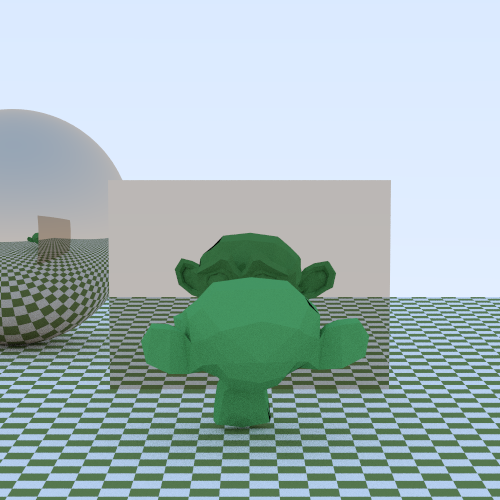
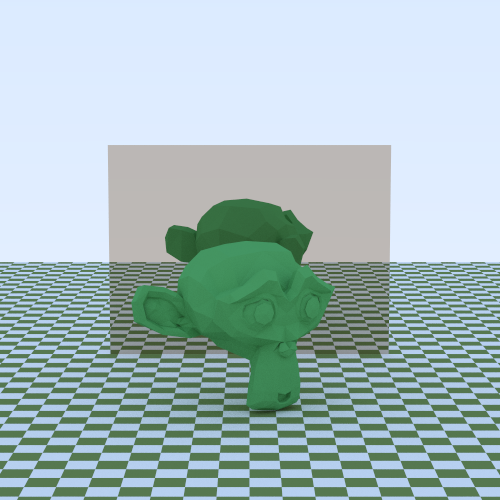
[#5] Clean-up the triangle sample scene.

diff --git a/scenes/rt_scenes.c b/scenes/rt_scenes.c
@@ -343,7 +343,8 @@ rt_hittable_list_t *rt_scene_metal_test(void)
 rt_hittable_list_t *rt_scene_triangle_test(void)
 {
     rt_material_t *green = rt_mt_diffuse_new_with_albedo(colour(0.12, 0.45, 0.15));
-    rt_material_t *floor_mat = rt_mt_diffuse_new_with_texture(rt_texture_cp_new_with_colour(colour(0.2, 0.3, 0.1), colour(0.9, 0.9, 0.9)));
+    rt_material_t *floor_mat =
+        rt_mt_diffuse_new_with_texture(rt_texture_cp_new_with_colour(colour(0.2, 0.3, 0.1), colour(0.9, 0.9, 0.9)));
     rt_material_t *mirror = rt_mt_metal_new(colour(0.7, 0.6, 0.5), 0.0);
     rt_material_t *glass = rt_mt_dielectric_new(1.01);
 
@@ -352,24 +353,25 @@ rt_hittable_list_t *rt_scene_triangle_test(void)
     rt_hittable_t *floor = rt_aa_rect_new_xz(-10, 10, -10, 10, -2, floor_mat);
     rt_hittable_list_add(objects, floor);
 
-    rt_hittable_t *side = rt_triangle_new(point3(-2, -2, 0), point3(2, -2, 0), point3(-2, 1, 0), rt_material_claim(mirror));
+    rt_hittable_t *side =
+        rt_triangle_new(point3(-2, -2, 0), point3(2, -2, 0), point3(-2, 1, 0), rt_material_claim(mirror));
     rt_hittable_list_add(objects, side);
     side = rt_triangle_new(point3(-2, 1, 0), point3(2, -2, 0), point3(2, 1, 0), rt_material_claim(mirror));
     rt_hittable_list_add(objects, side);
 
     // Suzanne model from Blender
+    // clang-format off
     point3_t vertices[] = {
         -0.4375, 0.1640625, -0.765625, 0.4375, 0.1640625, -0.765625, -0.5, 0.09375, -0.6875, 0.5, 0.09375, -0.6875, -0.546875, 0.0546875, -0.578125, 0.546875, 0.0546875, -0.578125, -0.3515625, -0.0234375, -0.6171875, 0.3515625, -0.0234375, -0.6171875, -0.3515625, 0.03125, -0.71875, 0.3515625, 0.03125, -0.71875, -0.3515625, 0.1328125, -0.78125, 0.3515625, 0.1328125, -0.78125, -0.2734375, 0.1640625, -0.796875, 0.2734375, 0.1640625, -0.796875, -0.203125, 0.09375, -0.7421875, 0.203125, 0.09375, -0.7421875, -0.15625, 0.0546875, -0.6484375, 0.15625, 0.0546875, -0.6484375, -0.078125, 0.2421875, -0.65625, 0.078125, 0.2421875, -0.65625, -0.140625, 0.2421875, -0.7421875, 0.140625, 0.2421875, -0.7421875, -0.2421875, 0.2421875, -0.796875, 0.2421875, 0.2421875, -0.796875, -0.2734375, 0.328125, -0.796875, 0.2734375, 0.328125, -0.796875, -0.203125, 0.390625, -0.7421875, 0.203125, 0.390625, -0.7421875, -0.15625, 0.4375, -0.6484375, 0.15625, 0.4375, -0.6484375, -0.3515625, 0.515625, -0.6171875, 0.3515625, 0.515625, -0.6171875, -0.3515625, 0.453125, -0.71875, 0.3515625, 0.453125, -0.71875, -0.3515625, 0.359375, -0.78125, 0.3515625, 0.359375, -0.78125, -0.4375, 0.328125, -0.765625, 0.4375, 0.328125, -0.765625, -0.5, 0.390625, -0.6875, 0.5, 0.390625, -0.6875, -0.546875, 0.4375, -0.578125, 0.546875, 0.4375, -0.578125, -0.625, 0.2421875, -0.5625, 0.625, 0.2421875, -0.5625, -0.5625, 0.2421875, -0.671875, 0.5625, 0.2421875, -0.671875, -0.46875, 0.2421875, -0.7578125, 0.46875, 0.2421875, -0.7578125, -0.4765625, 0.2421875, -0.7734375, 0.4765625, 0.2421875, -0.7734375, -0.4453125, 0.3359375, -0.78125, 0.4453125, 0.3359375, -0.78125, -0.3515625, 0.375, -0.8046875, 0.3515625, 0.375, -0.8046875, -0.265625, 0.3359375, -0.8203125, 0.265625, 0.3359375, -0.8203125, -0.2265625, 0.2421875, -0.8203125, 0.2265625, 0.2421875, -0.8203125, -0.265625, 0.15625, -0.8203125, 0.265625, 0.15625, -0.8203125, -0.3515625, 0.2421875, -0.828125, 0.3515625, 0.2421875, -0.828125, -0.3515625, 0.1171875, -0.8046875, 0.3515625, 0.1171875, -0.8046875, -0.4453125, 0.15625, -0.78125, 0.4453125, 0.15625, -0.78125, 0, 0.4296875, -0.7421875, 0, 0.3515625, -0.8203125, 0, -0.6796875, -0.734375, 0, -0.3203125, -0.78125, 0, -0.1875, -0.796875, 0, -0.7734375, -0.71875, 0, 0.40625, -0.6015625, 0, 0.5703125, -0.5703125, 0, 0.8984375, 0.546875, 0, 0.5625, 0.8515625, 0, 0.0703125, 0.828125, 0, -0.3828125, 0.3515625, -0.203125, -0.1875, -0.5625, 0.203125, -0.1875, -0.5625, -0.3125, -0.4375, -0.5703125, 0.3125, -0.4375, -0.5703125, -0.3515625, -0.6953125, -0.5703125, 0.3515625, -0.6953125, -0.5703125, -0.3671875, -0.890625, -0.53125, 0.3671875, -0.890625, -0.53125, -0.328125, -0.9453125, -0.5234375, 0.328125, -0.9453125, -0.5234375, -0.1796875, -0.96875, -0.5546875, 0.1796875, -0.96875, -0.5546875, 0, -0.984375, -0.578125, -0.4375, -0.140625, -0.53125, 0.4375, -0.140625, -0.53125, -0.6328125, -0.0390625, -0.5390625, 0.6328125, -0.0390625, -0.5390625, -0.828125, 0.1484375, -0.4453125, 0.828125, 0.1484375, -0.4453125, -0.859375, 0.4296875, -0.59375, 0.859375, 0.4296875, -0.59375, -0.7109375, 0.484375, -0.625, 0.7109375, 0.484375, -0.625, -0.4921875, 0.6015625, -0.6875, 0.4921875, 0.6015625, -0.6875, -0.3203125, 0.7578125, -0.734375, 0.3203125, 0.7578125, -0.734375, -0.15625, 0.71875, -0.7578125, 0.15625, 0.71875, -0.7578125, -0.0625, 0.4921875, -0.75, 0.0625, 0.4921875, -0.75, -0.1640625, 0.4140625, -0.7734375, 0.1640625, 0.4140625, -0.7734375, -0.125, 0.3046875, -0.765625, 0.125, 0.3046875, -0.765625, -0.203125, 0.09375, -0.7421875, 0.203125, 0.09375, -0.7421875, -0.375, 0.015625, -0.703125, 0.375, 0.015625, -0.703125, -0.4921875, 0.0625, -0.671875, 0.4921875, 0.0625, -0.671875, -0.625, 0.1875, -0.6484375, 0.625, 0.1875, -0.6484375, -0.640625, 0.296875, -0.6484375, 0.640625, 0.296875, -0.6484375, -0.6015625, 0.375, -0.6640625, 0.6015625, 0.375, -0.6640625, -0.4296875, 0.4375, -0.71875, 0.4296875, 0.4375, -0.71875, -0.25, 0.46875, -0.7578125, 0.25, 0.46875, -0.7578125, 0, -0.765625, -0.734375, -0.109375, -0.71875, -0.734375, 0.109375, -0.71875, -0.734375, -0.1171875, -0.8359375, -0.7109375, 0.1171875, -0.8359375, -0.7109375, -0.0625, -0.8828125, -0.6953125, 0.0625, -0.8828125, -0.6953125, 0, -0.890625, -0.6875, 0, -0.1953125, -0.75, 0, -0.140625, -0.7421875, -0.1015625, -0.1484375, -0.7421875, 0.1015625, -0.1484375, -0.7421875, -0.125, -0.2265625, -0.75, 0.125, -0.2265625, -0.75, -0.0859375, -0.2890625, -0.7421875, 0.0859375, -0.2890625, -0.7421875, -0.3984375, -0.046875, -0.671875, 0.3984375, -0.046875, -0.671875, -0.6171875, 0.0546875, -0.625, 0.6171875, 0.0546875, -0.625, -0.7265625, 0.203125, -0.6015625, 0.7265625, 0.203125, -0.6015625, -0.7421875, 0.375, -0.65625, 0.7421875, 0.375, -0.65625, -0.6875, 0.4140625, -0.7265625, 0.6875, 0.4140625, -0.7265625, -0.4375, 0.546875, -0.796875, 0.4375, 0.546875, -0.796875, -0.3125, 0.640625, -0.8359375, 0.3125, 0.640625, -0.8359375, -0.203125, 0.6171875, -0.8515625, 0.203125, 0.6171875, -0.8515625, -0.1015625, 0.4296875, -0.84375, 0.1015625, 0.4296875, -0.84375, -0.125, -0.1015625, -0.8125, 0.125, -0.1015625, -0.8125, -0.2109375, -0.4453125, -0.7109375, 0.2109375, -0.4453125, -0.7109375, -0.25, -0.703125, -0.6875, 0.25, -0.703125, -0.6875, -0.265625, -0.8203125, -0.6640625, 0.265625, -0.8203125, -0.6640625, -0.234375, -0.9140625, -0.6328125, 0.234375, -0.9140625, -0.6328125, -0.1640625, -0.9296875, -0.6328125, 0.1640625, -0.9296875, -0.6328125, 0, -0.9453125, -0.640625, 0, 0.046875, -0.7265625, 0, 0.2109375, -0.765625, -0.328125, 0.4765625, -0.7421875, 0.328125, 0.4765625, -0.7421875, -0.1640625, 0.140625, -0.75, 0.1640625, 0.140625, -0.75, -0.1328125, 0.2109375, -0.7578125, 0.1328125, 0.2109375, -0.7578125, -0.1171875, -0.6875, -0.734375, 0.1171875, -0.6875, -0.734375, -0.078125, -0.4453125, -0.75, 0.078125, -0.4453125, -0.75, 0, -0.4453125, -0.75, 0, -0.328125, -0.7421875, -0.09375, -0.2734375, -0.78125, 0.09375, -0.2734375, -0.78125, -0.1328125, -0.2265625, -0.796875, 0.1328125, -0.2265625, -0.796875, -0.109375, -0.1328125, -0.78125, 0.109375, -0.1328125, -0.78125, -0.0390625, -0.125, -0.78125, 0.0390625, -0.125, -0.78125, 0, -0.203125, -0.828125, -0.046875, -0.1484375, -0.8125, 0.046875, -0.1484375, -0.8125, -0.09375, -0.15625, -0.8125, 0.09375, -0.15625, -0.8125, -0.109375, -0.2265625, -0.828125, 0.109375, -0.2265625, -0.828125, -0.078125, -0.25, -0.8046875, 0.078125, -0.25, -0.8046875, 0, -0.2890625, -0.8046875, -0.2578125, -0.3125, -0.5546875, 0.2578125, -0.3125, -0.5546875, -0.1640625, -0.2421875, -0.7109375, 0.1640625, -0.2421875, -0.7109375, -0.1796875, -0.3125, -0.7109375, 0.1796875, -0.3125, -0.7109375, -0.234375, -0.25, -0.5546875, 0.234375, -0.25, -0.5546875, 0, -0.875, -0.6875, -0.046875, -0.8671875, -0.6875, 0.046875, -0.8671875, -0.6875, -0.09375, -0.8203125, -0.7109375, 0.09375, -0.8203125, -0.7109375, -0.09375, -0.7421875, -0.7265625, 0.09375, -0.7421875, -0.7265625, 0, -0.78125, -0.65625, -0.09375, -0.75, -0.6640625, 0.09375, -0.75, -0.6640625, -0.09375, -0.8125, -0.640625, 0.09375, -0.8125, -0.640625, -0.046875, -0.8515625, -0.6328125, 0.046875, -0.8515625, -0.6328125, 0, -0.859375, -0.6328125, -0.171875, 0.21875, -0.78125, 0.171875, 0.21875, -0.78125, -0.1875, 0.15625, -0.7734375, 0.1875, 0.15625, -0.7734375, -0.3359375, 0.4296875, -0.7578125, 0.3359375, 0.4296875, -0.7578125, -0.2734375, 0.421875, -0.7734375, 0.2734375, 0.421875, -0.7734375, -0.421875, 0.3984375, -0.7734375, 0.421875, 0.3984375, -0.7734375, -0.5625, 0.3515625, -0.6953125, 0.5625, 0.3515625, -0.6953125, -0.5859375, 0.2890625, -0.6875, 0.5859375, 0.2890625, -0.6875, -0.578125, 0.1953125, -0.6796875, 0.578125, 0.1953125, -0.6796875, -0.4765625, 0.1015625, -0.71875, 0.4765625, 0.1015625, -0.71875, -0.375, 0.0625, -0.7421875, 0.375, 0.0625, -0.7421875, -0.2265625, 0.109375, -0.78125, 0.2265625, 0.109375, -0.78125, -0.1796875, 0.296875, -0.78125, 0.1796875, 0.296875, -0.78125, -0.2109375, 0.375, -0.78125, 0.2109375, 0.375, -0.78125, -0.234375, 0.359375, -0.7578125, 0.234375, 0.359375, -0.7578125, -0.1953125, 0.296875, -0.7578125, 0.1953125, 0.296875, -0.7578125, -0.2421875, 0.125, -0.7578125, 0.2421875, 0.125, -0.7578125, -0.375, 0.0859375, -0.7265625, 0.375, 0.0859375, -0.7265625, -0.4609375, 0.1171875, -0.703125, 0.4609375, 0.1171875, -0.703125, -0.546875, 0.2109375, -0.671875, 0.546875, 0.2109375, -0.671875, -0.5546875, 0.28125, -0.671875, 0.5546875, 0.28125, -0.671875, -0.53125, 0.3359375, -0.6796875, 0.53125, 0.3359375, -0.6796875, -0.4140625, 0.390625, -0.75, 0.4140625, 0.390625, -0.75, -0.28125, 0.3984375, -0.765625, 0.28125, 0.3984375, -0.765625, -0.3359375, 0.40625, -0.75, 0.3359375, 0.40625, -0.75, -0.203125, 0.171875, -0.75, 0.203125, 0.171875, -0.75, -0.1953125, 0.2265625, -0.75, 0.1953125, 0.2265625, -0.75, -0.109375, 0.4609375, -0.609375, 0.109375, 0.4609375, -0.609375, -0.1953125, 0.6640625, -0.6171875, 0.1953125, 0.6640625, -0.6171875, -0.3359375, 0.6875, -0.59375, 0.3359375, 0.6875, -0.59375, -0.484375, 0.5546875, -0.5546875, 0.484375, 0.5546875, -0.5546875, -0.6796875, 0.453125, -0.4921875, 0.6796875, 0.453125, -0.4921875, -0.796875, 0.40625, -0.4609375, 0.796875, 0.40625, -0.4609375, -0.7734375, 0.1640625, -0.375, 0.7734375, 0.1640625, -0.375, -0.6015625, 0, -0.4140625, 0.6015625, 0, -0.4140625, -0.4375, -0.09375, -0.46875, 0.4375, -0.09375, -0.46875, 0, 0.8984375, -0.2890625, 0, 0.984375, 0.078125, 0, -0.1953125, 0.671875, 0, -0.4609375, -0.1875, 0, -0.9765625, -0.4609375, 0, -0.8046875, -0.34375, 0, -0.5703125, -0.3203125, 0, -0.484375, -0.28125, -0.8515625, 0.234375, -0.0546875, 0.8515625, 0.234375, -0.0546875, -0.859375, 0.3203125, 0.046875, 0.859375, 0.3203125, 0.046875, -0.7734375, 0.265625, 0.4375, 0.7734375, 0.265625, 0.4375, -0.4609375, 0.4375, 0.703125, 0.4609375, 0.4375, 0.703125, -0.734375, -0.046875, -0.0703125, 0.734375, -0.046875, -0.0703125, -0.59375, -0.125, 0.1640625, 0.59375, -0.125, 0.1640625, -0.640625, -0.0078125, 0.4296875, 0.640625, -0.0078125, 0.4296875, -0.3359375, 0.0546875, 0.6640625, 0.3359375, 0.0546875, 0.6640625, -0.234375, -0.3515625, -0.40625, 0.234375, -0.3515625, -0.40625, -0.1796875, -0.4140625, -0.2578125, 0.1796875, -0.4140625, -0.2578125, -0.2890625, -0.7109375, -0.3828125, 0.2890625, -0.7109375, -0.3828125, -0.25, -0.5, -0.390625, 0.25, -0.5, -0.390625, -0.328125, -0.9140625, -0.3984375, 0.328125, -0.9140625, -0.3984375, -0.140625, -0.7578125, -0.3671875, 0.140625, -0.7578125, -0.3671875, -0.125, -0.5390625, -0.359375, 0.125, -0.5390625, -0.359375, -0.1640625, -0.9453125, -0.4375, 0.1640625, -0.9453125, -0.4375, -0.21875, -0.28125, -0.4296875, 0.21875, -0.28125, -0.4296875, -0.2109375, -0.2265625, -0.46875, 0.2109375, -0.2265625, -0.46875, -0.203125, -0.171875, -0.5, 0.203125, -0.171875, -0.5, -0.2109375, -0.390625, -0.1640625, 0.2109375, -0.390625, -0.1640625, -0.296875, -0.3125, 0.265625, 0.296875, -0.3125, 0.265625, -0.34375, -0.1484375, 0.5390625, 0.34375, -0.1484375, 0.5390625, -0.453125, 0.8671875, 0.3828125, 0.453125, 0.8671875, 0.3828125, -0.453125, 0.9296875, 0.0703125, 0.453125, 0.9296875, 0.0703125, -0.453125, 0.8515625, -0.234375, 0.453125, 0.8515625, -0.234375, -0.4609375, 0.5234375, -0.4296875, 0.4609375, 0.5234375, -0.4296875, -0.7265625, 0.40625, -0.3359375, 0.7265625, 0.40625, -0.3359375, -0.6328125, 0.453125, -0.28125, 0.6328125, 0.453125, -0.28125, -0.640625, 0.703125, -0.0546875, 0.640625, 0.703125, -0.0546875, -0.796875, 0.5625, -0.125, 0.796875, 0.5625, -0.125, -0.796875, 0.6171875, 0.1171875, 0.796875, 0.6171875, 0.1171875, -0.640625, 0.75, 0.1953125, 0.640625, 0.75, 0.1953125, -0.640625, 0.6796875, 0.4453125, 0.640625, 0.6796875, 0.4453125, -0.796875, 0.5390625, 0.359375, 0.796875, 0.5390625, 0.359375, -0.6171875, 0.328125, 0.5859375, 0.6171875, 0.328125, 0.5859375, -0.484375, 0.0234375, 0.546875, 0.484375, 0.0234375, 0.546875, -0.8203125, 0.328125, 0.203125, 0.8203125, 0.328125, 0.203125, -0.40625, -0.171875, -0.1484375, 0.40625, -0.171875, -0.1484375, -0.4296875, -0.1953125, 0.2109375, 0.4296875, -0.1953125, 0.2109375, -0.890625, 0.40625, 0.234375, 0.890625, 0.40625, 0.234375, -0.7734375, -0.140625, 0.125, 0.7734375, -0.140625, 0.125, -1.039062, -0.1015625, 0.328125, 1.039062, -0.1015625, 0.328125, -1.28125, 0.0546875, 0.4296875, 1.28125, 0.0546875, 0.4296875, -1.351562, 0.3203125, 0.421875, 1.351562, 0.3203125, 0.421875, -1.234375, 0.5078125, 0.421875, 1.234375, 0.5078125, 0.421875, -1.023437, 0.4765625, 0.3125, 1.023437, 0.4765625, 0.3125, -1.015625, 0.4140625, 0.2890625, 1.015625, 0.4140625, 0.2890625, -1.1875, 0.4375, 0.390625, 1.1875, 0.4375, 0.390625, -1.265625, 0.2890625, 0.40625, 1.265625, 0.2890625, 0.40625, -1.210937, 0.078125, 0.40625, 1.210937, 0.078125, 0.40625, -1.03125, -0.0390625, 0.3046875, 1.03125, -0.0390625, 0.3046875, -0.828125, -0.0703125, 0.1328125, 0.828125, -0.0703125, 0.1328125, -0.921875, 0.359375, 0.21875, 0.921875, 0.359375, 0.21875, -0.9453125, 0.3046875, 0.2890625, 0.9453125, 0.3046875, 0.2890625, -0.8828125, -0.0234375, 0.2109375, 0.8828125, -0.0234375, 0.2109375, -1.039062, 0, 0.3671875, 1.039062, 0, 0.3671875, -1.1875, 0.09375, 0.4453125, 1.1875, 0.09375, 0.4453125, -1.234375, 0.25, 0.4453125, 1.234375, 0.25, 0.4453125, -1.171875, 0.359375, 0.4375, 1.171875, 0.359375, 0.4375, -1.023437, 0.34375, 0.359375, 1.023437, 0.34375, 0.359375, -0.84375, 0.2890625, 0.2109375, 0.84375, 0.2890625, 0.2109375, -0.8359375, 0.171875, 0.2734375, 0.8359375, 0.171875, 0.2734375, -0.7578125, 0.09375, 0.2734375, 0.7578125, 0.09375, 0.2734375, -0.8203125, 0.0859375, 0.2734375, 0.8203125, 0.0859375, 0.2734375, -0.84375, 0.015625, 0.2734375, 0.84375, 0.015625, 0.2734375, -0.8125, -0.015625, 0.2734375, 0.8125, -0.015625, 0.2734375, -0.7265625, 0, 0.0703125, 0.7265625, 0, 0.0703125, -0.71875, -0.0234375, 0.171875, 0.71875, -0.0234375, 0.171875, -0.71875, 0.0390625, 0.1875, 0.71875, 0.0390625, 0.1875, -0.796875, 0.203125, 0.2109375, 0.796875, 0.203125, 0.2109375, -0.890625, 0.2421875, 0.265625, 0.890625, 0.2421875, 0.265625, -0.890625, 0.234375, 0.3203125, 0.890625, 0.234375, 0.3203125, -0.8125, -0.015625, 0.3203125, 0.8125, -0.015625, 0.3203125, -0.8515625, 0.015625, 0.3203125, 0.8515625, 0.015625, 0.3203125, -0.828125, 0.078125, 0.3203125, 0.828125, 0.078125, 0.3203125, -0.765625, 0.09375, 0.3203125, 0.765625, 0.09375, 0.3203125, -0.84375, 0.171875, 0.3203125, 0.84375, 0.171875, 0.3203125, -1.039062, 0.328125, 0.4140625, 1.039062, 0.328125, 0.4140625, -1.1875, 0.34375, 0.484375, 1.1875, 0.34375, 0.484375, -1.257812, 0.2421875, 0.4921875, 1.257812, 0.2421875, 0.4921875, -1.210937, 0.0859375, 0.484375, 1.210937, 0.0859375, 0.484375, -1.046875, 0, 0.421875, 1.046875, 0, 0.421875, -0.8828125, -0.015625, 0.265625, 0.8828125, -0.015625, 0.265625, -0.953125, 0.2890625, 0.34375, 0.953125, 0.2890625, 0.34375, -0.890625, 0.109375, 0.328125, 0.890625, 0.109375, 0.328125, -0.9375, 0.0625, 0.3359375, 0.9375, 0.0625, 0.3359375, -1, 0.125, 0.3671875, 1, 0.125, 0.3671875, -0.9609375, 0.171875, 0.3515625, 0.9609375, 0.171875, 0.3515625, -1.015625, 0.234375, 0.375, 1.015625, 0.234375, 0.375, -1.054687, 0.1875, 0.3828125, 1.054687, 0.1875, 0.3828125, -1.109375, 0.2109375, 0.390625, 1.109375, 0.2109375, 0.390625, -1.085937, 0.2734375, 0.390625, 1.085937, 0.2734375, 0.390625, -1.023437, 0.4375, 0.484375, 1.023437, 0.4375, 0.484375, -1.25, 0.46875, 0.546875, 1.25, 0.46875, 0.546875, -1.367187, 0.296875, 0.5, 1.367187, 0.296875, 0.5, -1.3125, 0.0546875, 0.53125, 1.3125, 0.0546875, 0.53125, -1.039062, -0.0859375, 0.4921875, 1.039062, -0.0859375, 0.4921875, -0.7890625, -0.125, 0.328125, 0.7890625, -0.125, 0.328125, -0.859375, 0.3828125, 0.3828125, 0.859375, 0.3828125, 0.3828125
     };
     size_t triangle_count = 967;
     size_t triangles[] = {46, 2, 44, 3, 47, 45, 44, 4, 42, 5, 45, 43, 2, 6, 4, 7, 3, 5, 0, 8, 2, 9, 1, 3, 10, 14, 8, 15, 11, 9, 8, 16, 6, 17, 9, 7, 20, 16, 14, 21, 17, 19, 22, 14, 12, 23, 15, 21, 22, 26, 20, 27, 23, 21, 26, 18, 20, 27, 19, 29, 32, 28, 26, 33, 29, 31, 34, 26, 24, 35, 27, 33, 36, 32, 34, 37, 33, 39, 38, 30, 32, 39, 31, 41, 44, 40, 38, 45, 41, 43, 46, 38, 36, 47, 39, 45, 36, 48, 46, 37, 49, 51, 34, 50, 36, 35, 51, 53, 24, 52, 34, 25, 53, 55, 22, 54, 24, 23, 55, 57, 22, 58, 56, 59, 23, 57, 12, 62, 58, 63, 13, 59, 10, 64, 62, 65, 11, 63, 0, 48, 64, 49, 1, 65, 60, 64, 48, 49, 65, 61, 62, 64, 60, 61, 65, 63, 60, 58, 62, 63, 59, 61, 60, 56, 58, 59, 57, 61, 60, 54, 56, 57, 55, 61, 60, 52, 54, 55, 53, 61, 60, 50, 52, 53, 51, 61, 60, 48, 50, 51, 49, 61, 173, 90, 88, 174, 90, 175, 171, 88, 86, 172, 89, 174, 84, 171, 86, 172, 85, 87, 82, 169, 84, 170, 83, 85, 80, 167, 82, 168, 81, 83, 78, 145, 163, 146, 79, 164, 93, 145, 91, 94, 146, 148, 93, 149, 147, 150, 94, 148, 97, 149, 95, 98, 150, 152, 99, 151, 97, 100, 152, 154, 101, 153, 99, 102, 154, 156, 101, 157, 155, 158, 102, 156, 105, 157, 103, 106, 158, 160, 107, 159, 105, 108, 160, 162, 66, 161, 107, 66, 162, 67, 127, 161, 109, 128, 162, 160, 127, 157, 159, 158, 128, 160, 155, 178, 125, 156, 179, 158, 153, 125, 123, 154, 126, 156, 151, 123, 121, 152, 124, 154, 149, 121, 119, 150, 122, 152, 147, 119, 117, 148, 120, 150, 145, 117, 115, 146, 118, 148, 113, 145, 115, 146, 114, 116, 113, 176, 163, 176, 114, 164, 161, 111, 109, 162, 112, 67, 111, 177, 182, 177, 112, 183, 180, 177, 176, 181, 177, 183, 134, 175, 173, 175, 135, 174, 132, 173, 171, 174, 133, 172, 132, 169, 130, 133, 170, 172, 165, 184, 167, 185, 166, 168, 130, 167, 184, 168, 131, 185, 189, 186, 143, 189, 187, 188, 186, 68, 184, 187, 68, 188, 130, 68, 129, 131, 68, 185, 141, 190, 143, 191, 142, 144, 194, 141, 139, 195, 142, 193, 196, 139, 138, 197, 140, 195, 70, 138, 137, 70, 138, 197, 143, 69, 189, 144, 69, 191, 190, 207, 69, 191, 207, 206, 70, 199, 196, 200, 70, 197, 196, 201, 194, 202, 197, 195, 201, 192, 194, 202, 193, 204, 192, 205, 190, 206, 193, 191, 203, 199, 198, 204, 200, 202, 198, 205, 203, 206, 198, 204, 138, 163, 176, 164, 138, 176, 139, 210, 163, 211, 140, 164, 143, 210, 141, 144, 211, 213, 186, 212, 143, 187, 213, 166, 208, 165, 80, 209, 166, 213, 214, 212, 208, 215, 213, 211, 78, 210, 214, 211, 79, 215, 129, 221, 130, 129, 222, 71, 132, 221, 219, 222, 133, 220, 134, 219, 217, 220, 135, 218, 136, 217, 216, 218, 136, 216, 217, 230, 216, 218, 230, 229, 217, 226, 228, 227, 218, 229, 219, 224, 226, 225, 220, 227, 71, 224, 221, 71, 225, 223, 223, 228, 224, 229, 223, 225, 224, 228, 226, 227, 229, 225, 182, 233, 231, 234, 183, 232, 111, 231, 253, 232, 112, 254, 111, 255, 109, 112, 256, 254, 113, 233, 180, 114, 234, 252, 113, 249, 251, 250, 114, 252, 115, 247, 249, 248, 116, 250, 117, 245, 247, 246, 118, 248, 119, 243, 245, 244, 120, 246, 123, 243, 121, 124, 244, 242, 125, 241, 123, 126, 242, 240, 125, 235, 239, 236, 126, 240, 178, 237, 235, 238, 179, 236, 127, 255, 237, 256, 128, 238, 237, 257, 275, 258, 238, 276, 235, 275, 277, 276, 236, 278, 235, 273, 239, 236, 274, 278, 239, 271, 241, 240, 272, 274, 243, 271, 269, 272, 244, 270, 243, 267, 245, 244, 268, 270, 247, 267, 265, 268, 248, 266, 247, 263, 249, 248, 264, 266, 249, 261, 251, 250, 262, 264, 233, 261, 279, 262, 234, 280, 255, 259, 257, 260, 256, 258, 253, 281, 259, 282, 254, 260, 231, 279, 281, 280, 232, 282, 66, 283, 72, 284, 66, 72, 107, 285, 283, 286, 108, 284, 103, 285, 105, 104, 286, 288, 101, 287, 103, 102, 288, 290, 99, 289, 101, 100, 290, 292, 99, 293, 291, 294, 100, 292, 95, 293, 97, 96, 294, 296, 95, 297, 295, 298, 96, 296, 93, 299, 297, 300, 94, 298, 308, 337, 307, 308, 338, 328, 307, 335, 306, 307, 336, 338, 306, 339, 305, 306, 340, 336, 88, 305, 339, 305, 89, 340, 86, 339, 333, 340, 87, 334, 84, 333, 329, 334, 85, 330, 82, 329, 331, 330, 83, 332, 329, 337, 331, 338, 330, 332, 333, 335, 329, 334, 336, 340, 331, 327, 325, 332, 328, 338, 80, 331, 325, 332, 81, 326, 341, 214, 208, 342, 215, 344, 325, 208, 80, 326, 209, 342, 214, 345, 78, 215, 346, 344, 345, 91, 78, 346, 92, 300, 323, 303, 76, 324, 303, 352, 351, 77, 303, 352, 77, 350, 77, 347, 304, 348, 77, 304, 304, 327, 308, 328, 304, 308, 327, 341, 325, 328, 342, 348, 295, 317, 309, 318, 296, 310, 315, 76, 75, 316, 76, 324, 357, 302, 301, 358, 302, 356, 302, 353, 74, 354, 302, 74, 74, 315, 75, 316, 74, 75, 291, 361, 363, 362, 292, 364, 363, 367, 365, 368, 364, 366, 365, 369, 371, 370, 366, 372, 371, 375, 373, 376, 372, 374, 377, 375, 313, 378, 376, 374, 315, 373, 377, 374, 316, 378, 353, 371, 373, 372, 354, 374, 355, 365, 371, 366, 356, 372, 357, 363, 365, 364, 358, 366, 291, 359, 289, 292, 360, 364, 359, 301, 73, 360, 301, 358, 285, 289, 283, 286, 290, 288, 283, 359, 73, 360, 284, 73, 72, 283, 73, 73, 284, 72, 295, 361, 293, 296, 362, 310, 309, 367, 361, 368, 310, 362, 311, 369, 367, 370, 312, 368, 375, 381, 313, 376, 382, 370, 349, 383, 347, 350, 384, 386, 383, 319, 317, 384, 320, 386, 297, 383, 317, 384, 298, 318, 299, 341, 383, 342, 300, 384, 341, 347, 383, 384, 348, 342, 299, 345, 343, 344, 346, 300, 321, 377, 313, 322, 378, 380, 377, 323, 315, 378, 324, 380, 385, 321, 319, 386, 322, 380, 351, 385, 349, 352, 386, 380, 323, 379, 351, 352, 380, 324, 387, 401, 399, 388, 402, 414, 399, 403, 397, 404, 400, 398, 403, 395, 397, 404, 396, 406, 405, 393, 395, 406, 394, 408, 407, 391, 393, 408, 392, 410, 391, 411, 389, 412, 392, 390, 409, 417, 411, 418, 410, 412, 407, 419, 409, 420, 408, 410, 423, 407, 405, 424, 408, 422, 425, 405, 403, 426, 406, 424, 427, 403, 401, 428, 404, 426, 401, 415, 427, 416, 402, 428, 319, 441, 317, 320, 442, 444, 389, 443, 319, 390, 444, 412, 309, 441, 311, 442, 310, 312, 381, 413, 387, 414, 382, 388, 411, 439, 443, 440, 412, 444, 445, 439, 437, 446, 440, 444, 433, 437, 435, 438, 434, 436, 447, 433, 431, 448, 434, 446, 447, 449, 429, 448, 450, 432, 429, 415, 413, 430, 416, 450, 447, 381, 311, 448, 382, 430, 441, 447, 311, 442, 448, 446, 441, 443, 445, 446, 444, 442, 415, 451, 475, 452, 416, 476, 431, 451, 449, 432, 452, 462, 431, 459, 461, 460, 432, 462, 435, 459, 433, 436, 460, 458, 437, 457, 435, 438, 458, 456, 437, 453, 455, 454, 438, 456, 439, 473, 453, 474, 440, 454, 427, 475, 463, 476, 428, 464, 425, 463, 465, 464, 426, 466, 423, 465, 467, 466, 424, 468, 423, 469, 421, 424, 470, 468, 421, 471, 419, 422, 472, 470, 419, 473, 417, 420, 474, 472, 455, 477, 457, 456, 478, 480, 479, 483, 477, 480, 484, 482, 483, 487, 485, 488, 484, 486, 487, 491, 485, 488, 492, 490, 463, 485, 491, 486, 464, 492, 483, 475, 451, 484, 476, 486, 461, 483, 451, 462, 484, 478, 457, 461, 459, 462, 458, 460, 473, 455, 453, 474, 456, 480, 471, 479, 473, 480, 472, 474, 487, 471, 469, 488, 472, 482, 489, 469, 467, 490, 470, 488, 465, 489, 467, 490, 466, 468, 463, 491, 465, 466, 492, 464, 391, 503, 501, 504, 392, 502, 393, 501, 499, 502, 394, 500, 393, 497, 395, 394, 498, 500, 395, 495, 397, 396, 496, 498, 397, 493, 399, 398, 494, 496, 399, 505, 387, 400, 506, 494, 501, 505, 493, 502, 506, 504, 493, 499, 501, 500, 494, 502, 495, 497, 499, 500, 498, 496, 381, 505, 313, 382, 506, 388, 313, 503, 321, 504, 314, 322, 319, 503, 389, 504, 320, 390, 46, 0, 2, 3, 1, 47, 44, 2, 4, 5, 3, 45, 2, 8, 6, 7, 9, 3, 0, 10, 8, 9, 11, 1, 10, 12, 14, 15, 13, 11, 8, 14, 16, 17, 15, 9, 20, 18, 16, 21, 15, 17, 22, 20, 14, 23, 13, 15, 22, 24, 26, 27, 25, 23, 26, 28, 18, 27, 21, 19, 32, 30, 28, 33, 27, 29, 34, 32, 26, 35, 25, 27, 36, 38, 32, 37, 35, 33, 38, 40, 30, 39, 33, 31, 44, 42, 40, 45, 39, 41, 46, 44, 38, 47, 37, 39, 36, 50, 48, 37, 47, 49, 34, 52, 50, 35, 37, 51, 24, 54, 52, 25, 35, 53, 22, 56, 54, 23, 25, 55, 22, 12, 58, 59, 13, 23, 12, 10, 62, 63, 11, 13, 10, 0, 64, 65, 1, 11, 0, 46, 48, 49, 47, 1, 173, 175, 90, 174, 89, 90, 171, 173, 88, 172, 87, 89, 84, 169, 171, 172, 170, 85, 82, 167, 169, 170, 168, 83, 80, 165, 167, 168, 166, 81, 78, 91, 145, 146, 92, 79, 93, 147, 145, 94, 92, 146, 93, 95, 149, 150, 96, 94, 97, 151, 149, 98, 96, 150, 99, 153, 151, 100, 98, 152, 101, 155, 153, 102, 100, 154, 101, 103, 157, 158, 104, 102, 105, 159, 157, 106, 104, 158, 107, 161, 159, 108, 106, 160, 66, 67, 161, 66, 108, 162, 127, 159, 161, 128, 110, 162, 127, 178, 157, 158, 179, 128, 155, 157, 178, 156, 126, 179, 153, 155, 125, 154, 124, 126, 151, 153, 123, 152, 122, 124, 149, 151, 121, 150, 120, 122, 147, 149, 119, 148, 118, 120, 145, 147, 117, 146, 116, 118, 113, 163, 145, 146, 164, 114, 113, 180, 176, 176, 181, 114, 161, 67, 111, 162, 110, 112, 111, 67, 177, 177, 67, 112, 180, 182, 177, 181, 176, 177, 134, 136, 175, 175, 136, 135, 132, 134, 173, 174, 135, 133, 132, 171, 169, 133, 131, 170, 165, 186, 184, 185, 187, 166, 130, 169, 167, 168, 170, 131, 189, 188, 186, 189, 144, 187, 186, 188, 68, 187, 185, 68, 130, 184, 68, 131, 129, 68, 141, 192, 190, 191, 193, 142, 194, 192, 141, 195, 140, 142, 196, 194, 139, 197, 138, 140, 70, 196, 138, 143, 190, 69, 144, 189, 69, 190, 205, 207, 191, 69, 207, 70, 198, 199, 200, 198, 70, 196, 199, 201, 202, 200, 197, 201, 203, 192, 202, 195, 193, 192, 203, 205, 206, 204, 193, 203, 201, 199, 204, 198, 200, 198, 207, 205, 206, 207, 198, 138, 139, 163, 164, 140, 138, 139, 141, 210, 211, 142, 140, 143, 212, 210, 144, 142, 211, 186, 165, 212, 187, 144, 213, 208, 212, 165, 209, 81, 166, 214, 210, 212, 215, 209, 213, 78, 163, 210, 211, 164, 79, 129, 71, 221, 129, 131, 222, 132, 130, 221, 222, 131, 133, 134, 132, 219, 220, 133, 135, 136, 134, 217, 218, 135, 136, 217, 228, 230, 218, 216, 230, 217, 219, 226, 227, 220, 218, 219, 221, 224, 225, 222, 220, 71, 223, 224, 71, 222, 225, 223, 230, 228, 229, 230, 223, 182, 180, 233, 234, 181, 183, 111, 182, 231, 232, 183, 112, 111, 253, 255, 112, 110, 256, 113, 251, 233, 114, 181, 234, 113, 115, 249, 250, 116, 114, 115, 117, 247, 248, 118, 116, 117, 119, 245, 246, 120, 118, 119, 121, 243, 244, 122, 120, 123, 241, 243, 124, 122, 244, 125, 239, 241, 126, 124, 242, 125, 178, 235, 236, 179, 126, 178, 127, 237, 238, 128, 179, 127, 109, 255, 256, 110, 128, 237, 255, 257, 258, 256, 238, 235, 237, 275, 276, 238, 236, 235, 277, 273, 236, 240, 274, 239, 273, 271, 240, 242, 272, 243, 241, 271, 272, 242, 244, 243, 269, 267, 244, 246, 268, 247, 245, 267, 268, 246, 248, 247, 265, 263, 248, 250, 264, 249, 263, 261, 250, 252, 262, 233, 251, 261, 262, 252, 234, 255, 253, 259, 260, 254, 256, 253, 231, 281, 282, 232, 254, 231, 233, 279, 280, 234, 232, 66, 107, 283, 284, 108, 66, 107, 105, 285, 286, 106, 108, 103, 287, 285, 104, 106, 286, 101, 289, 287, 102, 104, 288, 99, 291, 289, 100, 102, 290, 99, 97, 293, 294, 98, 100, 95, 295, 293, 96, 98, 294, 95, 93, 297, 298, 94, 96, 93, 91, 299, 300, 92, 94, 308, 327, 337, 308, 307, 338, 307, 337, 335, 307, 306, 336, 306, 335, 339, 306, 305, 340, 88, 90, 305, 305, 90, 89, 86, 88, 339, 340, 89, 87, 84, 86, 333, 334, 87, 85, 82, 84, 329, 330, 85, 83, 329, 335, 337, 338, 336, 330, 333, 339, 335, 334, 330, 336, 331, 337, 327, 332, 326, 328, 80, 82, 331, 332, 83, 81, 341, 343, 214, 342, 209, 215, 325, 341, 208, 326, 81, 209, 214, 343, 345, 215, 79, 346, 345, 299, 91, 346, 79, 92, 323, 351, 303, 324, 76, 303, 351, 349, 77, 352, 303, 77, 77, 349, 347, 348, 350, 77, 304, 347, 327, 328, 348, 304, 327, 347, 341, 328, 326, 342, 295, 297, 317, 318, 298, 296, 315, 323, 76, 316, 75, 76, 357, 355, 302, 358, 301, 302, 302, 355, 353, 354, 356, 302, 74, 353, 315, 316, 354, 74, 291, 293, 361, 362, 294, 292, 363, 361, 367, 368, 362, 364, 365, 367, 369, 370, 368, 366, 371, 369, 375, 376, 370, 372, 377, 373, 375, 378, 314, 376, 315, 353, 373, 374, 354, 316, 353, 355, 371, 372, 356, 354, 355, 357, 365, 366, 358, 356, 357, 359, 363, 364, 360, 358, 291, 363, 359, 292, 290, 360, 359, 357, 301, 360, 73, 301, 285, 287, 289, 286, 284, 290, 283, 289, 359, 360, 290, 284, 295, 309, 361, 296, 294, 362, 309, 311, 367, 368, 312, 310, 311, 381, 369, 370, 382, 312, 375, 369, 381, 376, 314, 382, 349, 385, 383, 350, 348, 384, 383, 385, 319, 384, 318, 320, 297, 299, 383, 384, 300, 298, 299, 343, 341, 342, 344, 300, 321, 379, 377, 322, 314, 378, 377, 379, 323, 378, 316, 324, 385, 379, 321, 386, 320, 322, 351, 379, 385, 352, 350, 386, 387, 413, 401, 388, 400, 402, 399, 401, 403, 404, 402, 400, 403, 405, 395, 404, 398, 396, 405, 407, 393, 406, 396, 394, 407, 409, 391, 408, 394, 392, 391, 409, 411, 412, 410, 392, 409, 419, 417, 418, 420, 410, 407, 421, 419, 420, 422, 408, 423, 421, 407, 424, 406, 408, 425, 423, 405, 426, 404, 406, 427, 425, 403, 428, 402, 404, 401, 413, 415, 416, 414, 402, 319, 443, 441, 320, 318, 442, 389, 411, 443, 390, 320, 444, 309, 317, 441, 442, 318, 310, 381, 429, 413, 414, 430, 382, 411, 417, 439, 440, 418, 412, 445, 443, 439, 446, 438, 440, 433, 445, 437, 438, 446, 434, 447, 445, 433, 448, 432, 434, 447, 431, 449, 448, 430, 450, 429, 449, 415, 430, 414, 416, 447, 429, 381, 448, 312, 382, 441, 445, 447, 442, 312, 448, 415, 449, 451, 452, 450, 416, 431, 461, 451, 432, 450, 452, 431, 433, 459, 460, 434, 432, 435, 457, 459, 436, 434, 460, 437, 455, 457, 438, 436, 458, 437, 439, 453, 454, 440, 438, 439, 417, 473, 474, 418, 440, 427, 415, 475, 476, 416, 428, 425, 427, 463, 464, 428, 426, 423, 425, 465, 466, 426, 424, 423, 467, 469, 424, 422, 470, 421, 469, 471, 422, 420, 472, 419, 471, 473, 420, 418, 474, 455, 479, 477, 456, 458, 478, 479, 481, 483, 480, 478, 484, 483, 481, 487, 488, 482, 484, 487, 489, 491, 488, 486, 492, 463, 475, 485, 486, 476, 464, 483, 485, 475, 484, 452, 476, 461, 477, 483, 462, 452, 484, 457, 477, 461, 462, 478, 458, 473, 479, 455, 474, 454, 456, 471, 481, 479, 480, 482, 472, 487, 481, 471, 488, 470, 472, 489, 487, 469, 490, 468, 470, 465, 491, 489, 490, 492, 466, 391, 389, 503, 504, 390, 392, 393, 391, 501, 502, 392, 394, 393, 499, 497, 394, 396, 498, 395, 497, 495, 396, 398, 496, 397, 495, 493, 398, 400, 494, 399, 493, 505, 400, 388, 506, 501, 503, 505, 502, 494, 506, 493, 495, 499, 500, 496, 494, 381, 387, 505, 382, 314, 506, 313, 505, 503, 504, 506, 314, 319, 321, 503, 504, 322, 320};
-    rt_hittable_t *monkey_mesh = rt_instance_new(rt_triangle_mesh_new(vertices, sizeof(vertices)/sizeof(vertices[0]), triangles, triangle_count, green));
-    rt_instance_rotate_y(monkey_mesh, 10);
+    // clang-format on
+    rt_hittable_t *monkey_mesh = rt_instance_new(
+        rt_triangle_mesh_new(vertices, sizeof(vertices) / sizeof(vertices[0]), triangles, triangle_count, green));
+    rt_instance_rotate_y(monkey_mesh, 215);
     rt_instance_translate(monkey_mesh, vec3(0, -1, 3));
     rt_hittable_list_add(objects, monkey_mesh);
-
-    rt_hittable_t *sphere = rt_sphere_new(point3(-4, 0, -4), 2, rt_material_claim(mirror));
-    rt_hittable_list_add(objects, sphere);
 
     return objects;
 }
@@ -402,7 +404,7 @@ rt_scene_id_t rt_scene_get_id_by_name(const char *name)
         return RT_SCENE_NONE;
     }
 
-    for (int i = 0; i < sizeof(gs_scenes)/sizeof(gs_scenes[0]); ++i)
+    for (int i = 0; i < sizeof(gs_scenes) / sizeof(gs_scenes[0]); ++i)
     {
         if (0 == strcmp(gs_scenes[i].name, name))
         {
@@ -415,7 +417,7 @@ rt_scene_id_t rt_scene_get_id_by_name(const char *name)
 
 const char *rt_scene_get_name_by_id(rt_scene_id_t scene_id)
 {
-    for (int i = 0; i < sizeof(gs_scenes)/sizeof(gs_scenes[0]); ++i)
+    for (int i = 0; i < sizeof(gs_scenes) / sizeof(gs_scenes[0]); ++i)
     {
         if (gs_scenes[i].id == scene_id)
         {
@@ -430,7 +432,7 @@ void rt_scene_print_scenes_info(FILE *to)
 {
     assert(NULL != to);
 
-    for (int i = 0; i < sizeof(gs_scenes)/sizeof(gs_scenes[0]); ++i)
+    for (int i = 0; i < sizeof(gs_scenes) / sizeof(gs_scenes[0]); ++i)
     {
         fprintf(to, "\t%-30s  %s\n", gs_scenes[i].name, gs_scenes[i].desc);
     }

diff --git a/main.c b/main.c
@@ -426,18 +426,18 @@ int main(int argc, char const *argv[])
             world = rt_scene_metal_test();
             break;
 
-        case RT_SCENE_NONE:
-            fprintf(stderr, "Fatal error: scene id is undefined after parsing the parameters\n");
-            return EXIT_FAILURE;
-
         case RT_SCENE_TRIANGLE_TEST:
             look_from = point3(0, 2, 20);
-            look_at = point3(0, 0, 0);
+            look_at = point3(0, -0.5, 0);
             vertical_fov = 20.0;
 
             skybox = rt_skybox_new_gradient(colour(1, 1, 1), colour(0.5, 0.7, 1));
             world = rt_scene_triangle_test();
             break;
+
+        case RT_SCENE_NONE:
+            fprintf(stderr, "Fatal error: scene id is undefined after parsing the parameters\n");
+            return EXIT_FAILURE;
     }
 
     rt_camera_t *camera =
